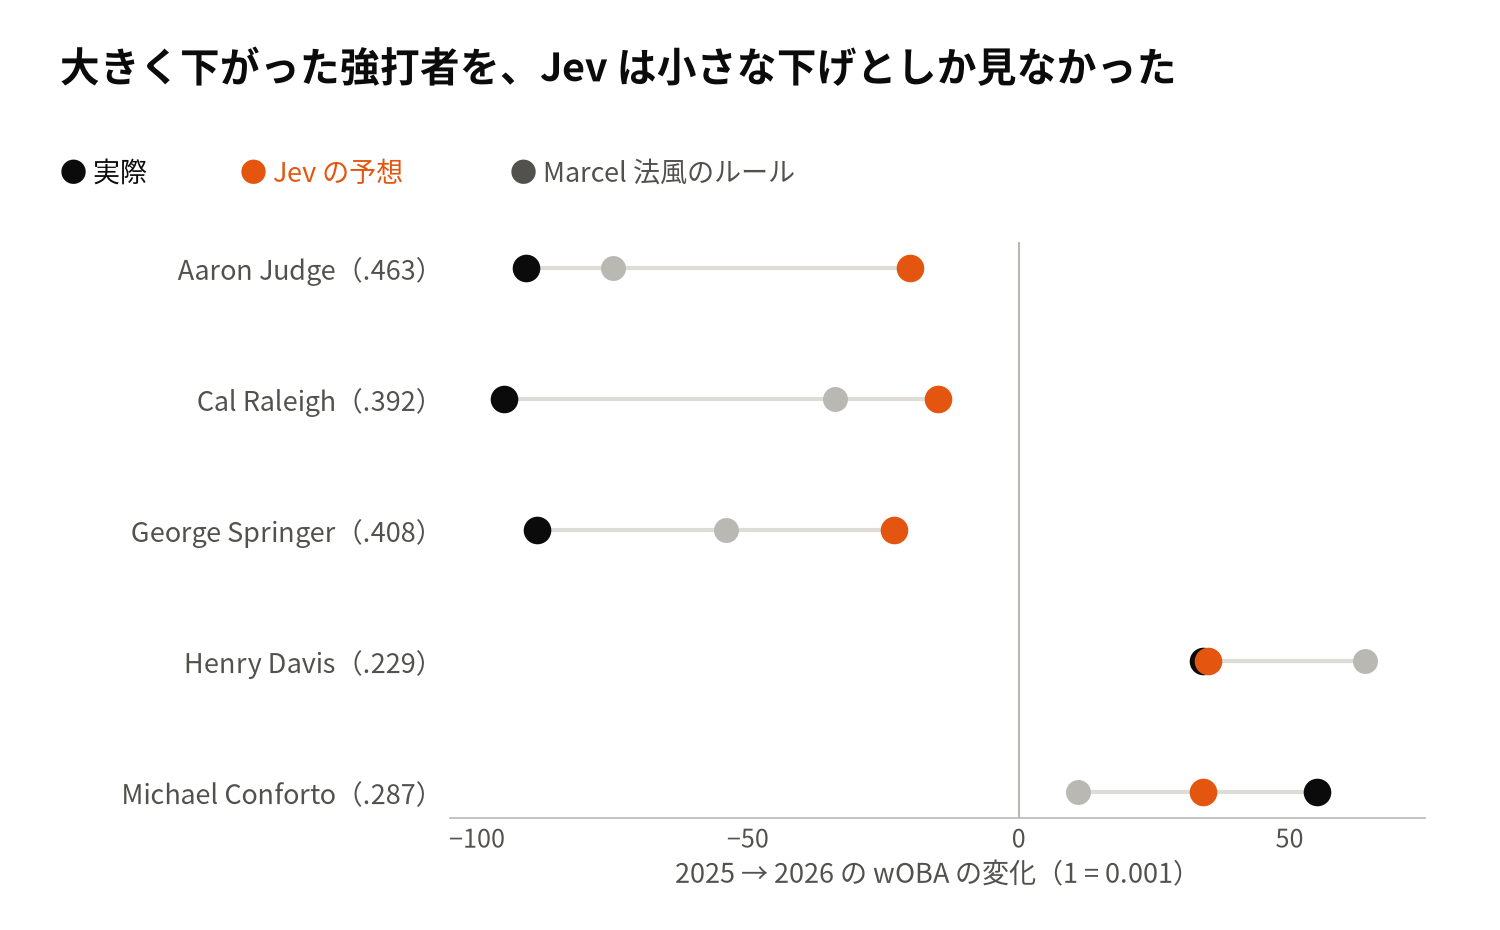
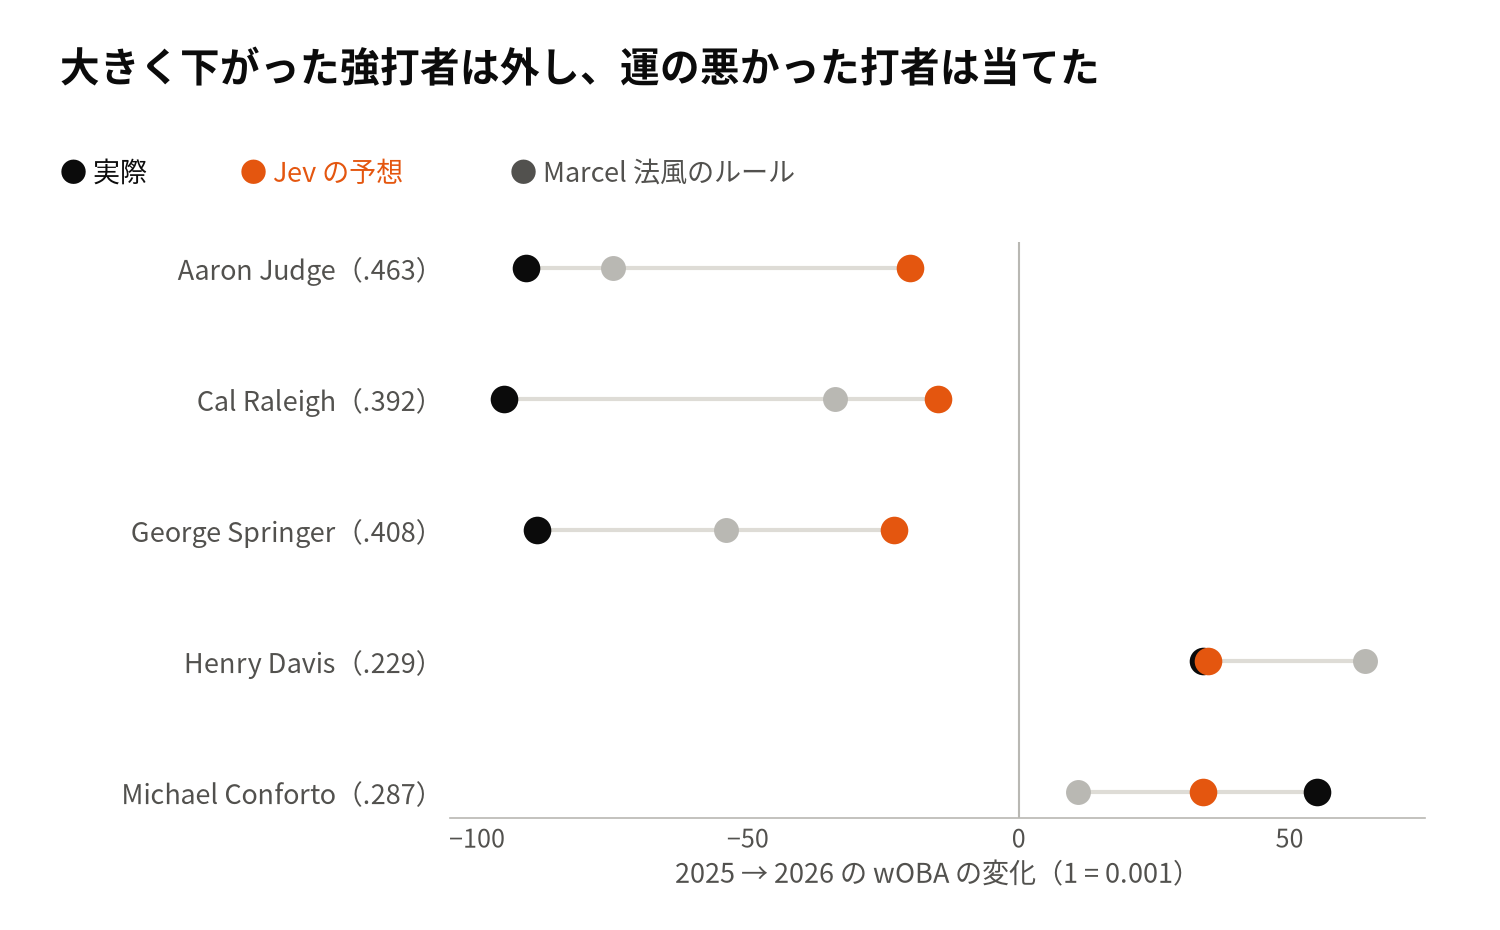
Deep dive: missing regression to the mean closes the gap; correct recall-probe and luck readings
- deepdive.py: shift Jev centre by the regression it under-uses (weights fixed without 2026
  outcomes) -> RPS 0.1505, indistinguishable from MARCEL-LITE; training-weight formula for examples
- README: the recall probe cannot bound recall (bias and recall add up); joint fit shows luck is
  used slightly less, regression to the mean much less (marginal correlations misled)
- charts: titles follow the corrected readings

Claude-Session: https://claude.ai/code/session_01HuPvxPxit3S1V3EdoTCM6E

Changed region(s): [[0.3067, 0.0312, 0.7973, 0.0935]]

diff --git a/blog_ja/figs_ja.py b/blog_ja/figs_ja.py
@@ -134,7 +134,7 @@ for ax, col, c, lab in ((axs[0], 0, ORANGE, "Jev"), (axs[1], 1, SUB, "Marcel 法
     base(ax, left=True); ax.spines["left"].set_color(GRAY)
 axs[0].set_ylabel("予想した変化", fontsize=13, color=SUB)
 axs[1].text(20, -95, "点線＝予想と実際が同じ", fontsize=12, color=SUB)
-title(fig, "Jev の予想は、実際の動きよりずっと小さい", "打者 227 人・予想のばらつき（標準偏差）Jev 13・ルール 21・実際 36")
+title(fig, "Jev の予想は、ルールと比べても 6 割ほどしか動かない", "打者 227 人・予想のばらつき（標準偏差）Jev 13・ルール 21（当たる予想でも実際の 36 より小さくなる）")
 fig.savefig(f"{OUT}/ja_5_scatter.png"); plt.close(fig)
 
 # 6. Study 2: weights on regression to the mean and on luck (joint least squares)
@@ -172,21 +172,21 @@ base(ax)
 fig.text(0.04, 0.83, "● 実際", fontsize=13, color=INK, ha="left", va="top")
 fig.text(0.16, 0.83, "● Jev の予想", fontsize=13, color=ORANGE, ha="left", va="top")
 fig.text(0.34, 0.83, "● Marcel 法風のルール", fontsize=13, color=SUB, ha="left", va="top")
-title(fig, "大きく下がった強打者を、Jev は小さな下げとしか見なかった")
+title(fig, "大きく下がった強打者は外し、運の悪かった打者は当てた")
 fig.savefig(f"{OUT}/ja_7_examples.png"); plt.close(fig)
 
 # 8. Study 2: repairing the width only
 arms8 = [("Jev（そのまま）", 0.1795, ORANGE), ("Jev の予想の中心 ＋\nルールと同じ幅", 0.1624, ORANGE),
-         ("Marcel 法風のルール", 0.1489, GRAY)]
-fig, ax = plt.subplots(figsize=(10, 5.2), dpi=150)
-fig.subplots_adjust(top=0.70, left=0.30, right=0.92, bottom=0.08)
+         ("さらに、足りない\n平均への回帰を足す", 0.1505, ORANGE), ("Marcel 法風のルール", 0.1489, GRAY)]
+fig, ax = plt.subplots(figsize=(10, 6.0), dpi=150)
+fig.subplots_adjust(top=0.74, left=0.30, right=0.92, bottom=0.08)
 for i, (lab, r, c) in enumerate(arms8):
     v = clim - r; y = len(arms8) - 1 - i
-    ax.barh(y, v, color=c, height=0.55, alpha=1.0 if i != 1 else 0.55)
+    ax.barh(y, v, color=c, height=0.55, alpha=1.0 if i == 0 or c == GRAY else 0.55)
     ax.text(v + 0.0008, y, f"{v:.3f}", va="center", fontsize=15, color=ORANGE if c == ORANGE else SUB,
             weight="bold" if c == ORANGE else "normal")
 ax.set_yticks(range(len(arms8))[::-1]); ax.set_yticklabels([a[0] for a in arms8], fontsize=14)
 ax.set_xlim(0, 0.058); ax.set_xticks([]); base(ax); ax.spines["bottom"].set_visible(False)
-title(fig, "幅だけ直すと差は半分以上縮まるが、まだルールに届かない", "当て推量の RPS 0.195 から何ポイント下げたか（大きいほど良い）・結果を見た後の分析")
+title(fig, "幅と平均への回帰を補うと、Jev の予想はルールに並ぶ", "当て推量の RPS 0.195 から何ポイント下げたか（大きいほど良い）・結果を見た後の分析")
 fig.savefig(f"{OUT}/ja_8_width.png"); plt.close(fig)
 print("ok2")

diff --git a/study2-projection/deepdive.py b/study2-projection/deepdive.py
@@ -59,7 +59,7 @@ w_mar, *_ = np.linalg.lstsq(X(test), mar, rcond=None)
 w_test, *_ = np.linalg.lstsq(X(test), d, rcond=None)
 for name, w in (("training pairs (actual)", w_train), ("test batters (actual)", w_test),
                 ("Jev", w_jev), ("MARCEL-LITE", w_mar)):
-    print(f"  {name:24s} woba_c {w[1]:+.3f}  gap {w[2]:+.3f}")
+    print(f"  {name:24s} intercept {w[0] * 1000:+.1f}  woba_c {w[1]:+.3f}  gap {w[2]:+.3f}")
 
 print("\n3. Repairing only the width (RPS, lower is better)")
 res_sd = float(np.std([u["delta"] - marcel(u) for u in train]))
@@ -96,9 +96,21 @@ print(f"  (T, w) on all 227, for the chart only: ({full[0]:.1f}, {full[1]:.2f})"
 tp = temp(P, *full)
 print("  bin shares after the repair:", np.round(tp.mean(0), 3), " actual:", np.round(np.bincount(b, minlength=5) / n, 3))
 
+# c) add back the regression to the mean Jev under-uses: shift Jev's expected change by
+#    (training weight - Jev's own weight) x (wOBA - league). Uses no test outcome: the training weight
+#    comes from the 1,620 pairs and Jev's weight from Jev's forecasts.
+shift = (w_train[1] - w_jev[1]) * np.array([u["woba_c"] for u in test])
+regr = np.array([rps(normal_bins(jev_delta[i] + shift[i], res_sd, cuts), b[i]) for i in range(n)])
+print(f"  JEV-CENTER + missing regression {regr.mean():.4f}")
+# the weights formula alone (training pairs), for the named examples
+wf = X(test) @ w_train
+print("  training-weights formula for examples: " + ", ".join(
+    f"{test[i]['player_id']}:{wf[i] * 1000:+.0f}" for i in (16, 79, 6, 163, 42)))
+print(f"  lowest / highest expected change Jev can express: {bin_mean[0] * 1000:+.1f} / {bin_mean[4] * 1000:+.1f} points")
+
 rngb = np.random.default_rng(20260929)
 mrow = np.array([rps(normal_bins(mar[i], res_sd, cuts), b[i]) for i in range(n)])
-for name, a in (("JEV-CENTER", center), ("JEV-TEMP", cv)):
+for name, a in (("JEV-CENTER", center), ("JEV-TEMP", cv), ("JEV-CENTER+REGR", regr)):
     diffs = [(a[s] - mrow[s]).mean() for s in (rngb.integers(0, n, n) for _ in range(10000))]
     print(f"  {name} - MARCEL-LITE {np.mean(a - mrow):+.4f}  95% [{np.percentile(diffs, 2.5):+.4f}, {np.percentile(diffs, 97.5):+.4f}]")
 

diff --git a/README.md b/README.md
@@ -36,18 +36,29 @@ exact age. Outcome: the change in wOBA, in five ordered bins; primary metric RPS
 - Recall probe (blend each of 50 hitters with a statistical neighbour to destroy identity): Jev's
   score improved more on blended lines than the fitted model's (−0.031, 95% [−0.055, −0.007]).
   Blending also narrows the outcomes (sd of Δ 0.036 → 0.029 on these 50), which favours narrow
-  forecasts like Jev's, so this is not evidence *against* recall either; it only rules out a
-  recall penalty larger than about 0.024.
+  forecasts like Jev's. Recall would make Jev *worse* on blended lines, the narrowing makes it
+  *better*, and only the sum is observed, so **this probe cannot say whether Jev recalls players**
+  (an earlier version of this README said it ruled out a penalty larger than 0.024; it does not).
 
 **Where it loses (post-hoc, not pre-registered — [`results/diagnose_output.txt`](study2-projection/results/diagnose_output.txt)).**
 Jev gets the *direction* nearly as well as the rule (correlation with the real change 0.57 vs
 0.62). It uses the right signals — it expects hitters far above the league mean to fall back,
-and it leans on the wOBA − xwOBA "luck" gap strongly (its forecast's correlation with the gap is
-−0.68; the gap's correlation with the real change is −0.43). What it gets wrong, in this sample
+and it uses the wOBA − xwOBA "luck" gap. Fitting both signals jointly
+([`deepdive.py`](study2-projection/deepdive.py)), Jev's forecast gives back 0.20 of a point per point
+above the league mean and 0.32 per point of luck, against 0.43 and 0.43 in the 1,620 training pairs:
+**it under-uses regression to the mean most**. (An earlier version read the marginal correlations
+−0.68 vs −0.43 as "leans on luck strongly"; the joint fit says luck is used a bit *less* than it should
+be.) What it gets wrong, in this sample
 (2025→26, hitters with ≥ 250 PA in both seasons), is the **size of the moves**: it puts 2% on a
 big drop (actual 14.5%) and 9% on a big rise (actual 22.5%), and over-weights "about the same"
 and "small rise" (0.33 / 0.34 vs actual 0.22 / 0.18). Real hitters moved much further than Jev
 expected, and RPS punishes that.
+
+Repairs, all post-hoc and without new Jev calls ([`results/deepdive_output.txt`](study2-projection/results/deepdive_output.txt)):
+Jev's expected change with MARCEL-LITE's width gives RPS 0.1624 (vs MARCEL-LITE +0.014,
+95% [+0.004, +0.023]); flattening Jev's bins with a temperature chosen by 10-fold CV gives 0.1681;
+also adding the missing regression to the mean ((0.43 − 0.20) × (wOBA − league), both weights fixed
+without 2026 outcomes) gives 0.1505, indistinguishable from MARCEL-LITE (+0.002, 95% [−0.005, +0.008]).
 
 Cost: 277 calls, 189,677 input tokens, $0.0080 at list price, from OpenRouter's free allowance
 (account balance $0, no card). Full output: [`results/analyze_output.txt`](study2-projection/results/analyze_output.txt).
